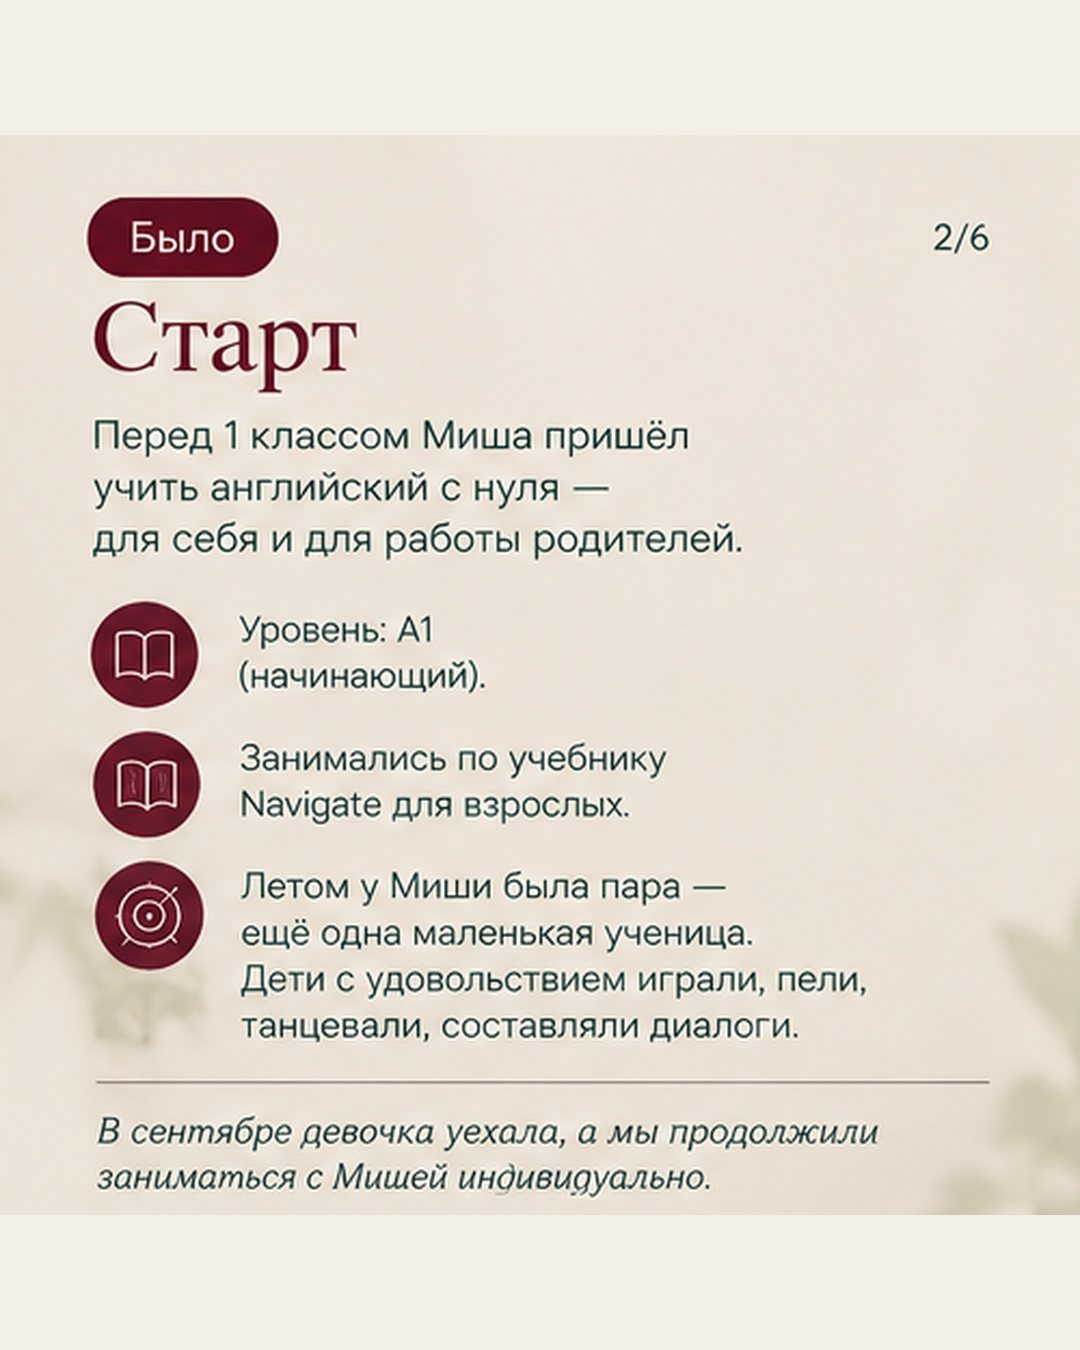
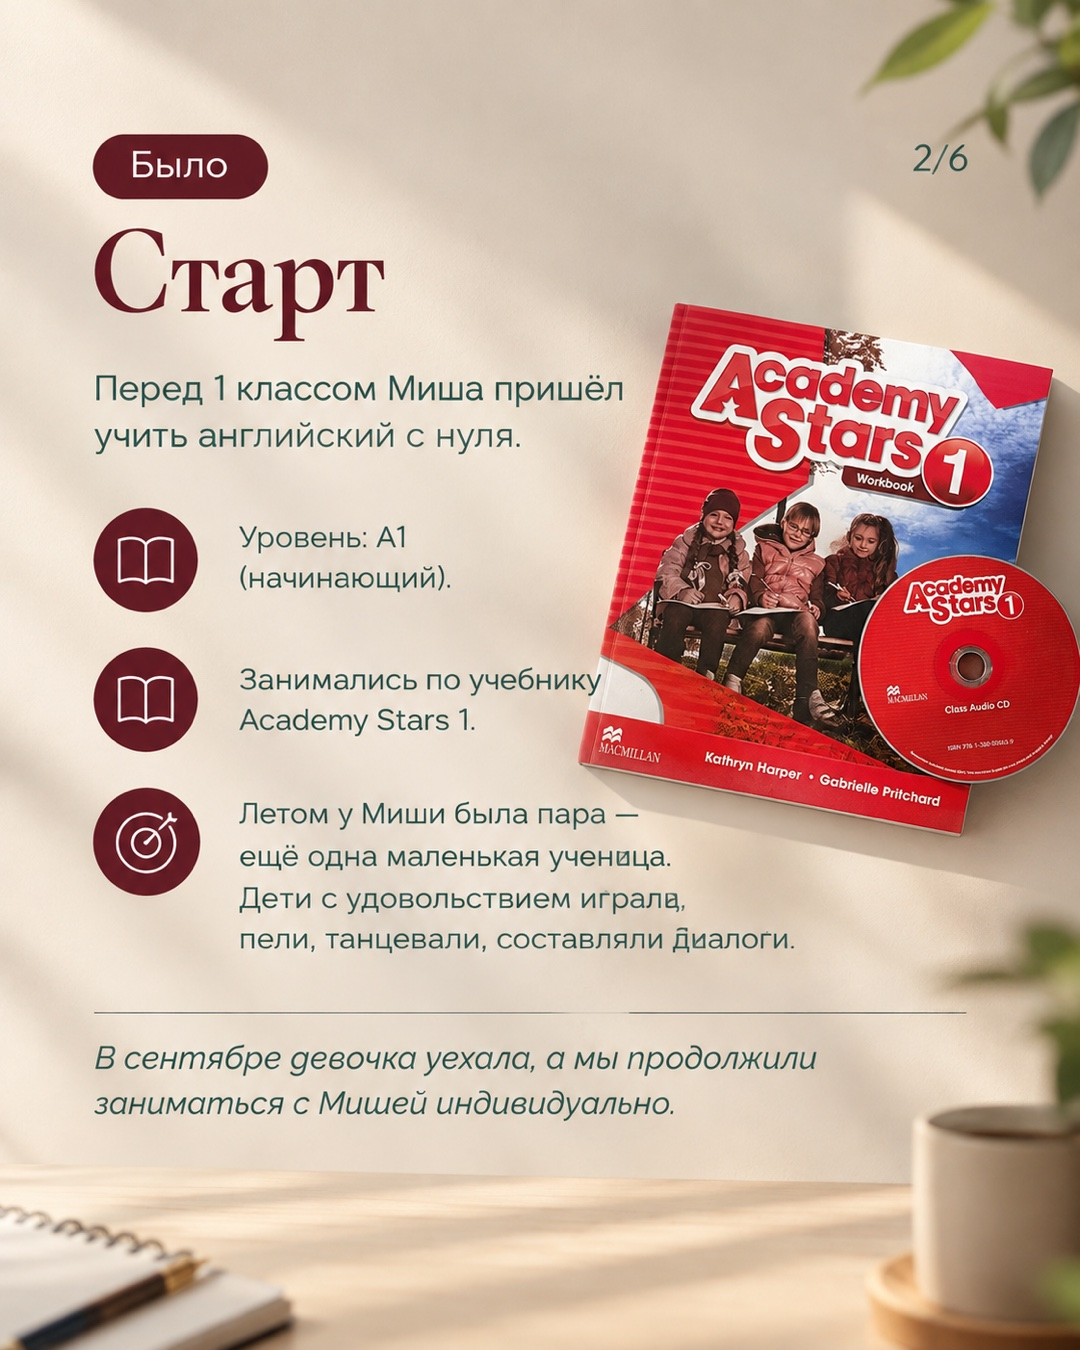
Кейс Миши: новая вторая карточка
Карточка «Старт» заменена на версию с учебником Academy Stars 1.

diff --git a/index.html b/index.html
@@ -2,7 +2,6 @@
 <html lang="ru">
 <head>
 <meta charset="utf-8">
-<meta name="robots" content="noindex, nofollow">
 <meta name="viewport" content="width=device-width,initial-scale=1">
 <!-- Базовая защита через CSP: разрешены только нужные источники (свои инлайн-скрипты/стили,
      шрифты Google, карта Google Maps). Часть защиты (frame-ancestors, запрет показа сайта

diff --git a/posle-pereryva.html b/posle-pereryva.html
@@ -2,7 +2,6 @@
 <html lang="ru">
 <head>
 <meta charset="utf-8">
-<meta name="robots" content="noindex, nofollow">
 <meta name="viewport" content="width=device-width,initial-scale=1">
 <title>Как быстро освежить английский после перерыва · Ольга Фокина</title>
 <link rel="preconnect" href="https://fonts.googleapis.com">

diff --git a/pervyj-mesyac.html b/pervyj-mesyac.html
@@ -2,7 +2,6 @@
 <html lang="ru">
 <head>
 <meta charset="utf-8">
-<meta name="robots" content="noindex, nofollow">
 <meta name="viewport" content="width=device-width,initial-scale=1">
 <title>Как проходит первый месяц: 8 занятий по плану · Ольга Фокина</title>
 <link rel="preconnect" href="https://fonts.googleapis.com">

diff --git a/privychki.html b/privychki.html
@@ -2,7 +2,6 @@
 <html lang="ru">
 <head>
 <meta charset="utf-8">
-<meta name="robots" content="noindex, nofollow">
 <meta name="viewport" content="width=device-width,initial-scale=1">
 <title>5 привычек, чтобы не бросить на полпути · Ольга Фокина</title>
 <link rel="preconnect" href="https://fonts.googleapis.com">

diff --git a/10-priznakov.html b/10-priznakov.html
@@ -2,7 +2,6 @@
 <html lang="ru">
 <head>
 <meta charset="utf-8">
-<meta name="robots" content="noindex, nofollow">
 <meta name="viewport" content="width=device-width,initial-scale=1">
 <title>Как выбрать репетитора: 10 признаков · Ольга Фокина</title>
 <link rel="preconnect" href="https://fonts.googleapis.com">

diff --git a/7-metodov-mladshie.html b/7-metodov-mladshie.html
@@ -2,7 +2,6 @@
 <html lang="ru">
 <head>
 <meta charset="utf-8">
-<meta name="robots" content="noindex, nofollow">
 <meta name="viewport" content="width=device-width,initial-scale=1">
 <title>7 методов для младших школьников · Ольга Фокина</title>
 <link rel="preconnect" href="https://fonts.googleapis.com">

diff --git a/vpr-pamyatka.html b/vpr-pamyatka.html
@@ -2,7 +2,6 @@
 <html lang="ru">
 <head>
 <meta charset="utf-8">
-<meta name="robots" content="noindex, nofollow">
 <meta name="viewport" content="width=device-width,initial-scale=1">
 <title>Как пройти ВПР без нервов · Ольга Фокина</title>
 <link rel="preconnect" href="https://fonts.googleapis.com">

diff --git a/diplomy.html b/diplomy.html
@@ -2,7 +2,6 @@
 <html lang="ru">
 <head>
 <meta charset="utf-8">
-<meta name="robots" content="noindex, nofollow">
 <meta name="viewport" content="width=device-width,initial-scale=1">
 <title>Дипломы и сертификаты · Ольга Фокина</title>
 <link rel="preconnect" href="https://fonts.googleapis.com">

diff --git a/metody-5-8-klassov.html b/metody-5-8-klassov.html
@@ -2,7 +2,6 @@
 <html lang="ru">
 <head>
 <meta charset="utf-8">
-<meta name="robots" content="noindex, nofollow">
 <meta name="viewport" content="width=device-width,initial-scale=1">
 <title>Методы для 5–8 классов · Ольга Фокина</title>
 <link rel="preconnect" href="https://fonts.googleapis.com">

diff --git a/pamyatka-roditelyam.html b/pamyatka-roditelyam.html
@@ -2,7 +2,6 @@
 <html lang="ru">
 <head>
 <meta charset="utf-8">
-<meta name="robots" content="noindex, nofollow">
 <meta name="viewport" content="width=device-width,initial-scale=1">
 <title>Памятка для родителей · Ольга Фокина</title>
 <link rel="preconnect" href="https://fonts.googleapis.com">

diff --git a/poleznoe.html b/poleznoe.html
@@ -2,7 +2,6 @@
 <html lang="ru">
 <head>
 <meta charset="utf-8">
-<meta name="robots" content="noindex, nofollow">
 <meta name="viewport" content="width=device-width,initial-scale=1">
 <title>Полезное — Ольга Фокина</title>
 <link rel="preconnect" href="https://fonts.googleapis.com">
